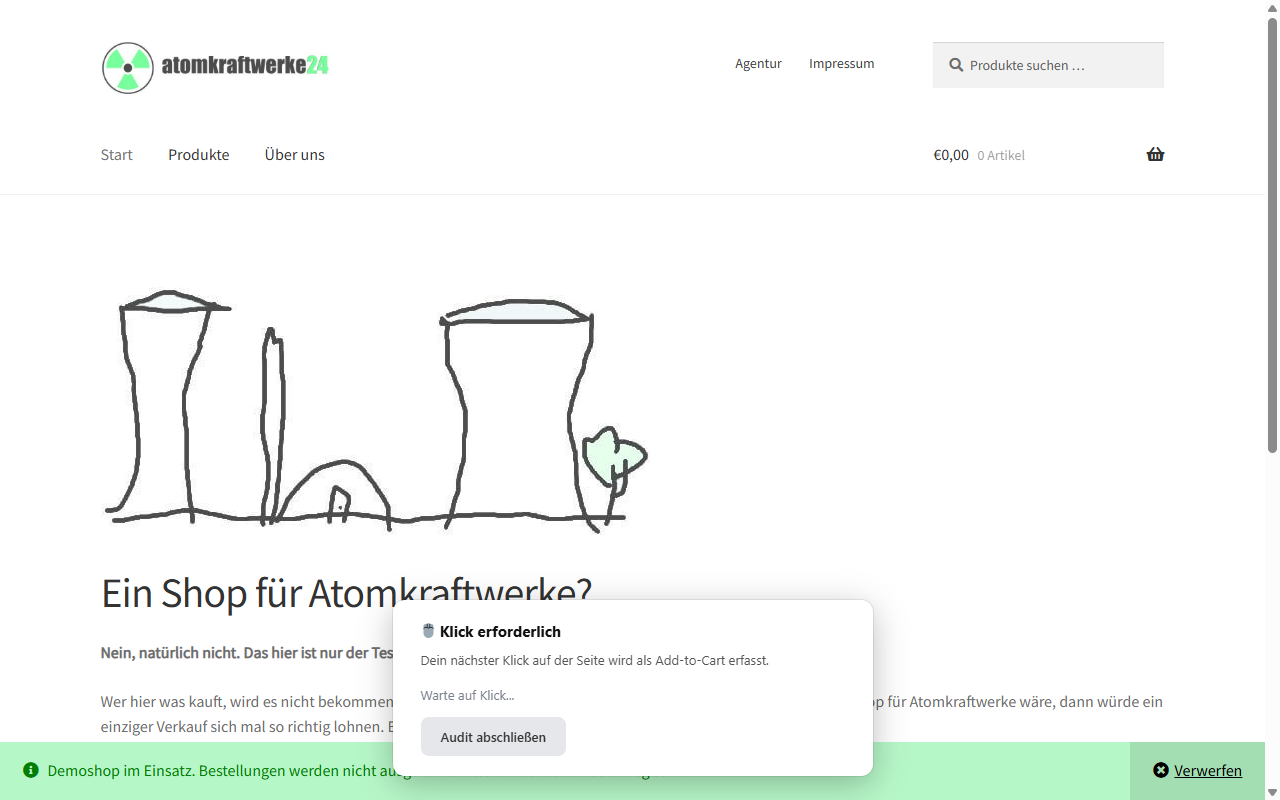
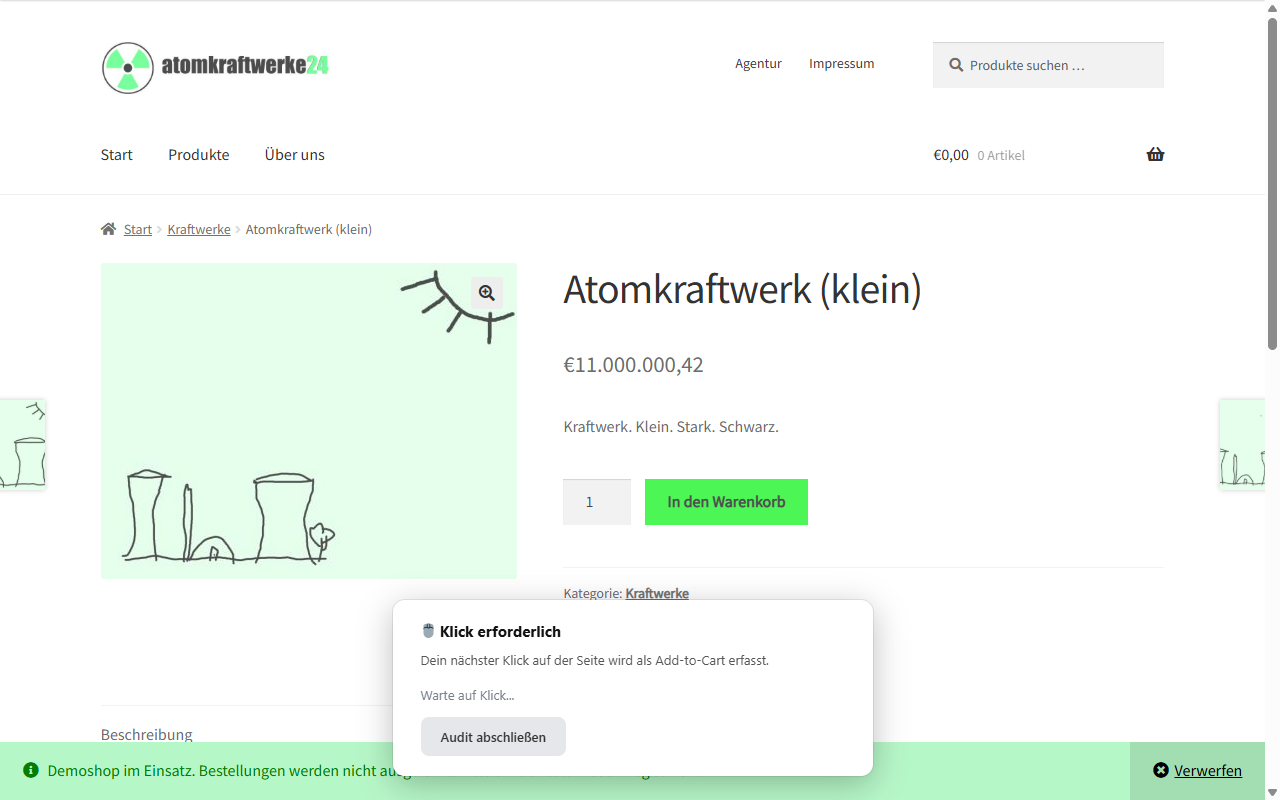
fix: E-Commerce Screenshots auf passenden Seiten (Shop/PDP statt Startseite)

diff --git a/helpers/generate-docs-screenshots.js b/helpers/generate-docs-screenshots.js
@@ -208,7 +208,7 @@ async function captureEcomPrompts() {
   await withBrowser(async (page) => {
     logStep('Ecom Schritt Navigate', 'atomkraftwerke24.de');
     try {
-      await navigateTo(page, 'https://www.atomkraftwerke24.de');
+      await navigateTo(page, 'https://atomkraftwerke24.de/shop/');
     } catch (err) {
       console.warn(`    WARN: Seite konnte nicht geladen werden: ${err.message} -- ueberspringe`);
       screenshotIndex += 2; // skip #7 and #8 as well
@@ -227,7 +227,7 @@ async function captureEcomPrompts() {
   await withBrowser(async (page) => {
     logStep('Ecom Schritt ATC Bereit', 'atomkraftwerke24.de');
     try {
-      await navigateTo(page, 'https://www.atomkraftwerke24.de');
+      await navigateTo(page, 'https://atomkraftwerke24.de/produkt/atomkraftwerk-klein/');
     } catch (err) {
       console.warn(`    WARN: Seite konnte nicht geladen werden: ${err.message} -- ueberspringe`);
       screenshotIndex++; // skip #8 as well
@@ -249,7 +249,7 @@ async function captureEcomPrompts() {
   await withBrowser(async (page) => {
     logStep('Ecom ATC Click-Wait', 'atomkraftwerke24.de');
     try {
-      await navigateTo(page, 'https://www.atomkraftwerke24.de');
+      await navigateTo(page, 'https://atomkraftwerke24.de/produkt/atomkraftwerk-klein/');
     } catch (err) {
       console.warn(`    WARN: Seite konnte nicht geladen werden: ${err.message} -- ueberspringe`);
       return;
